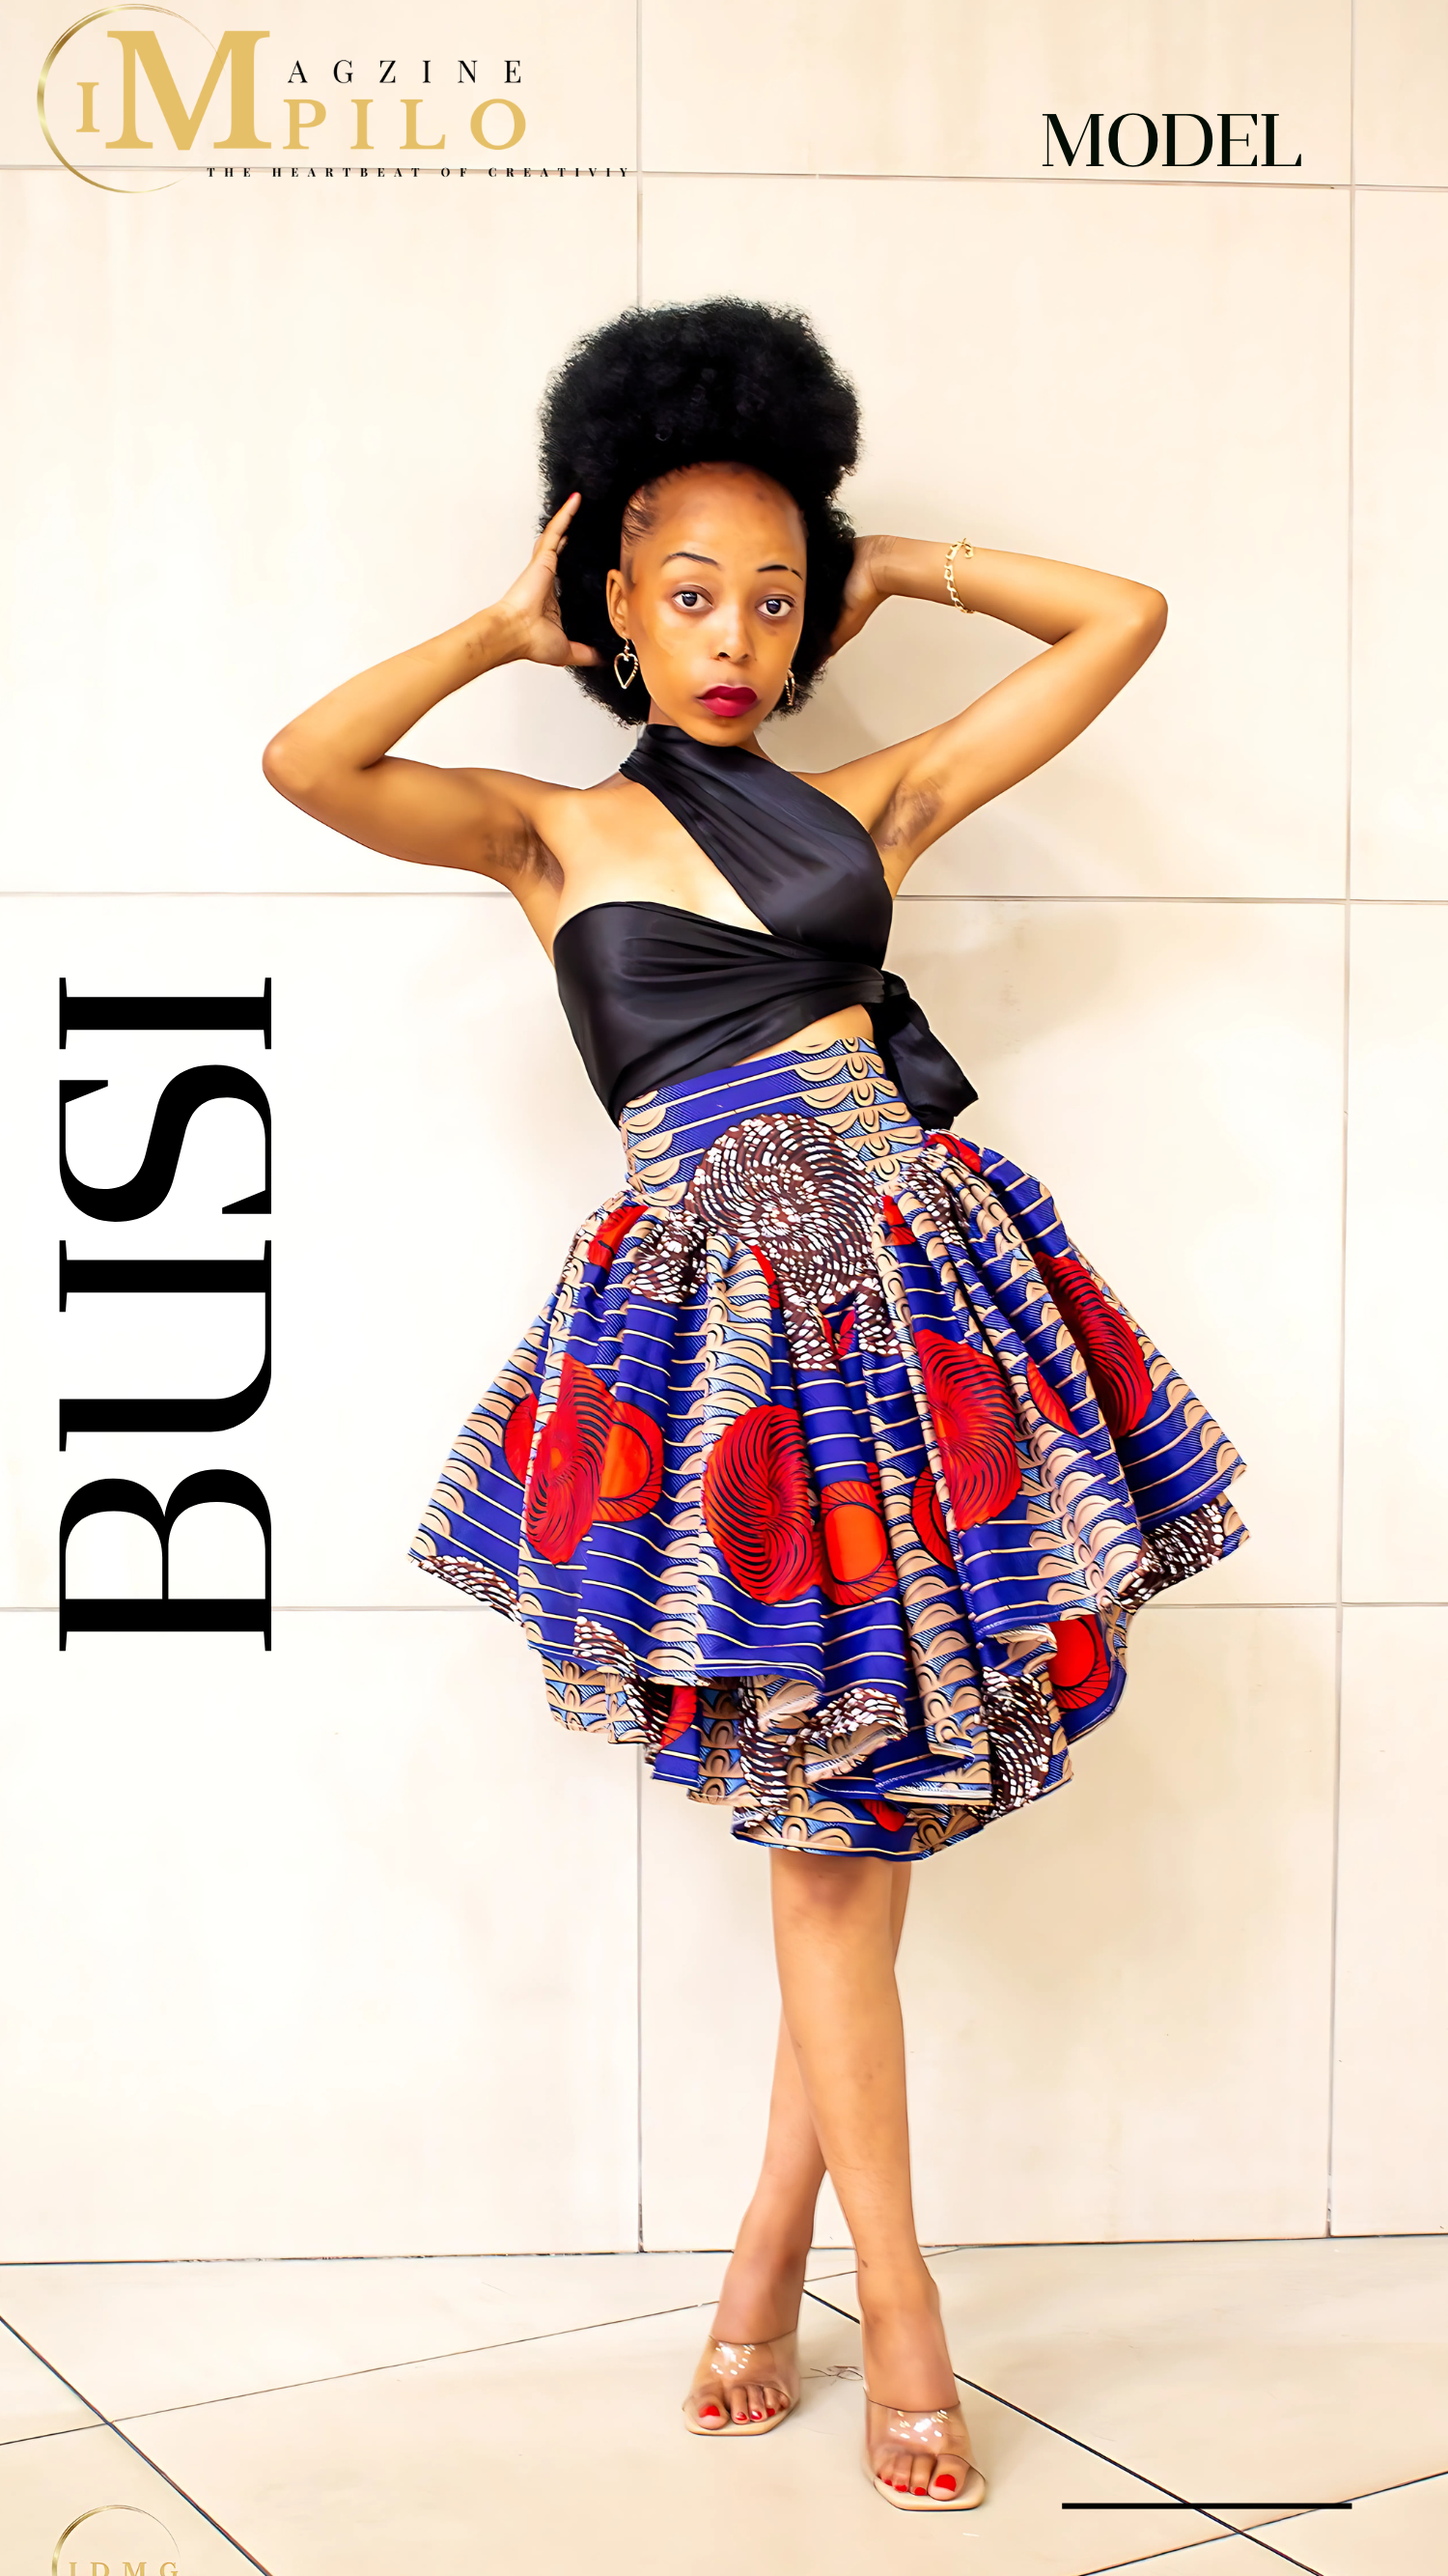
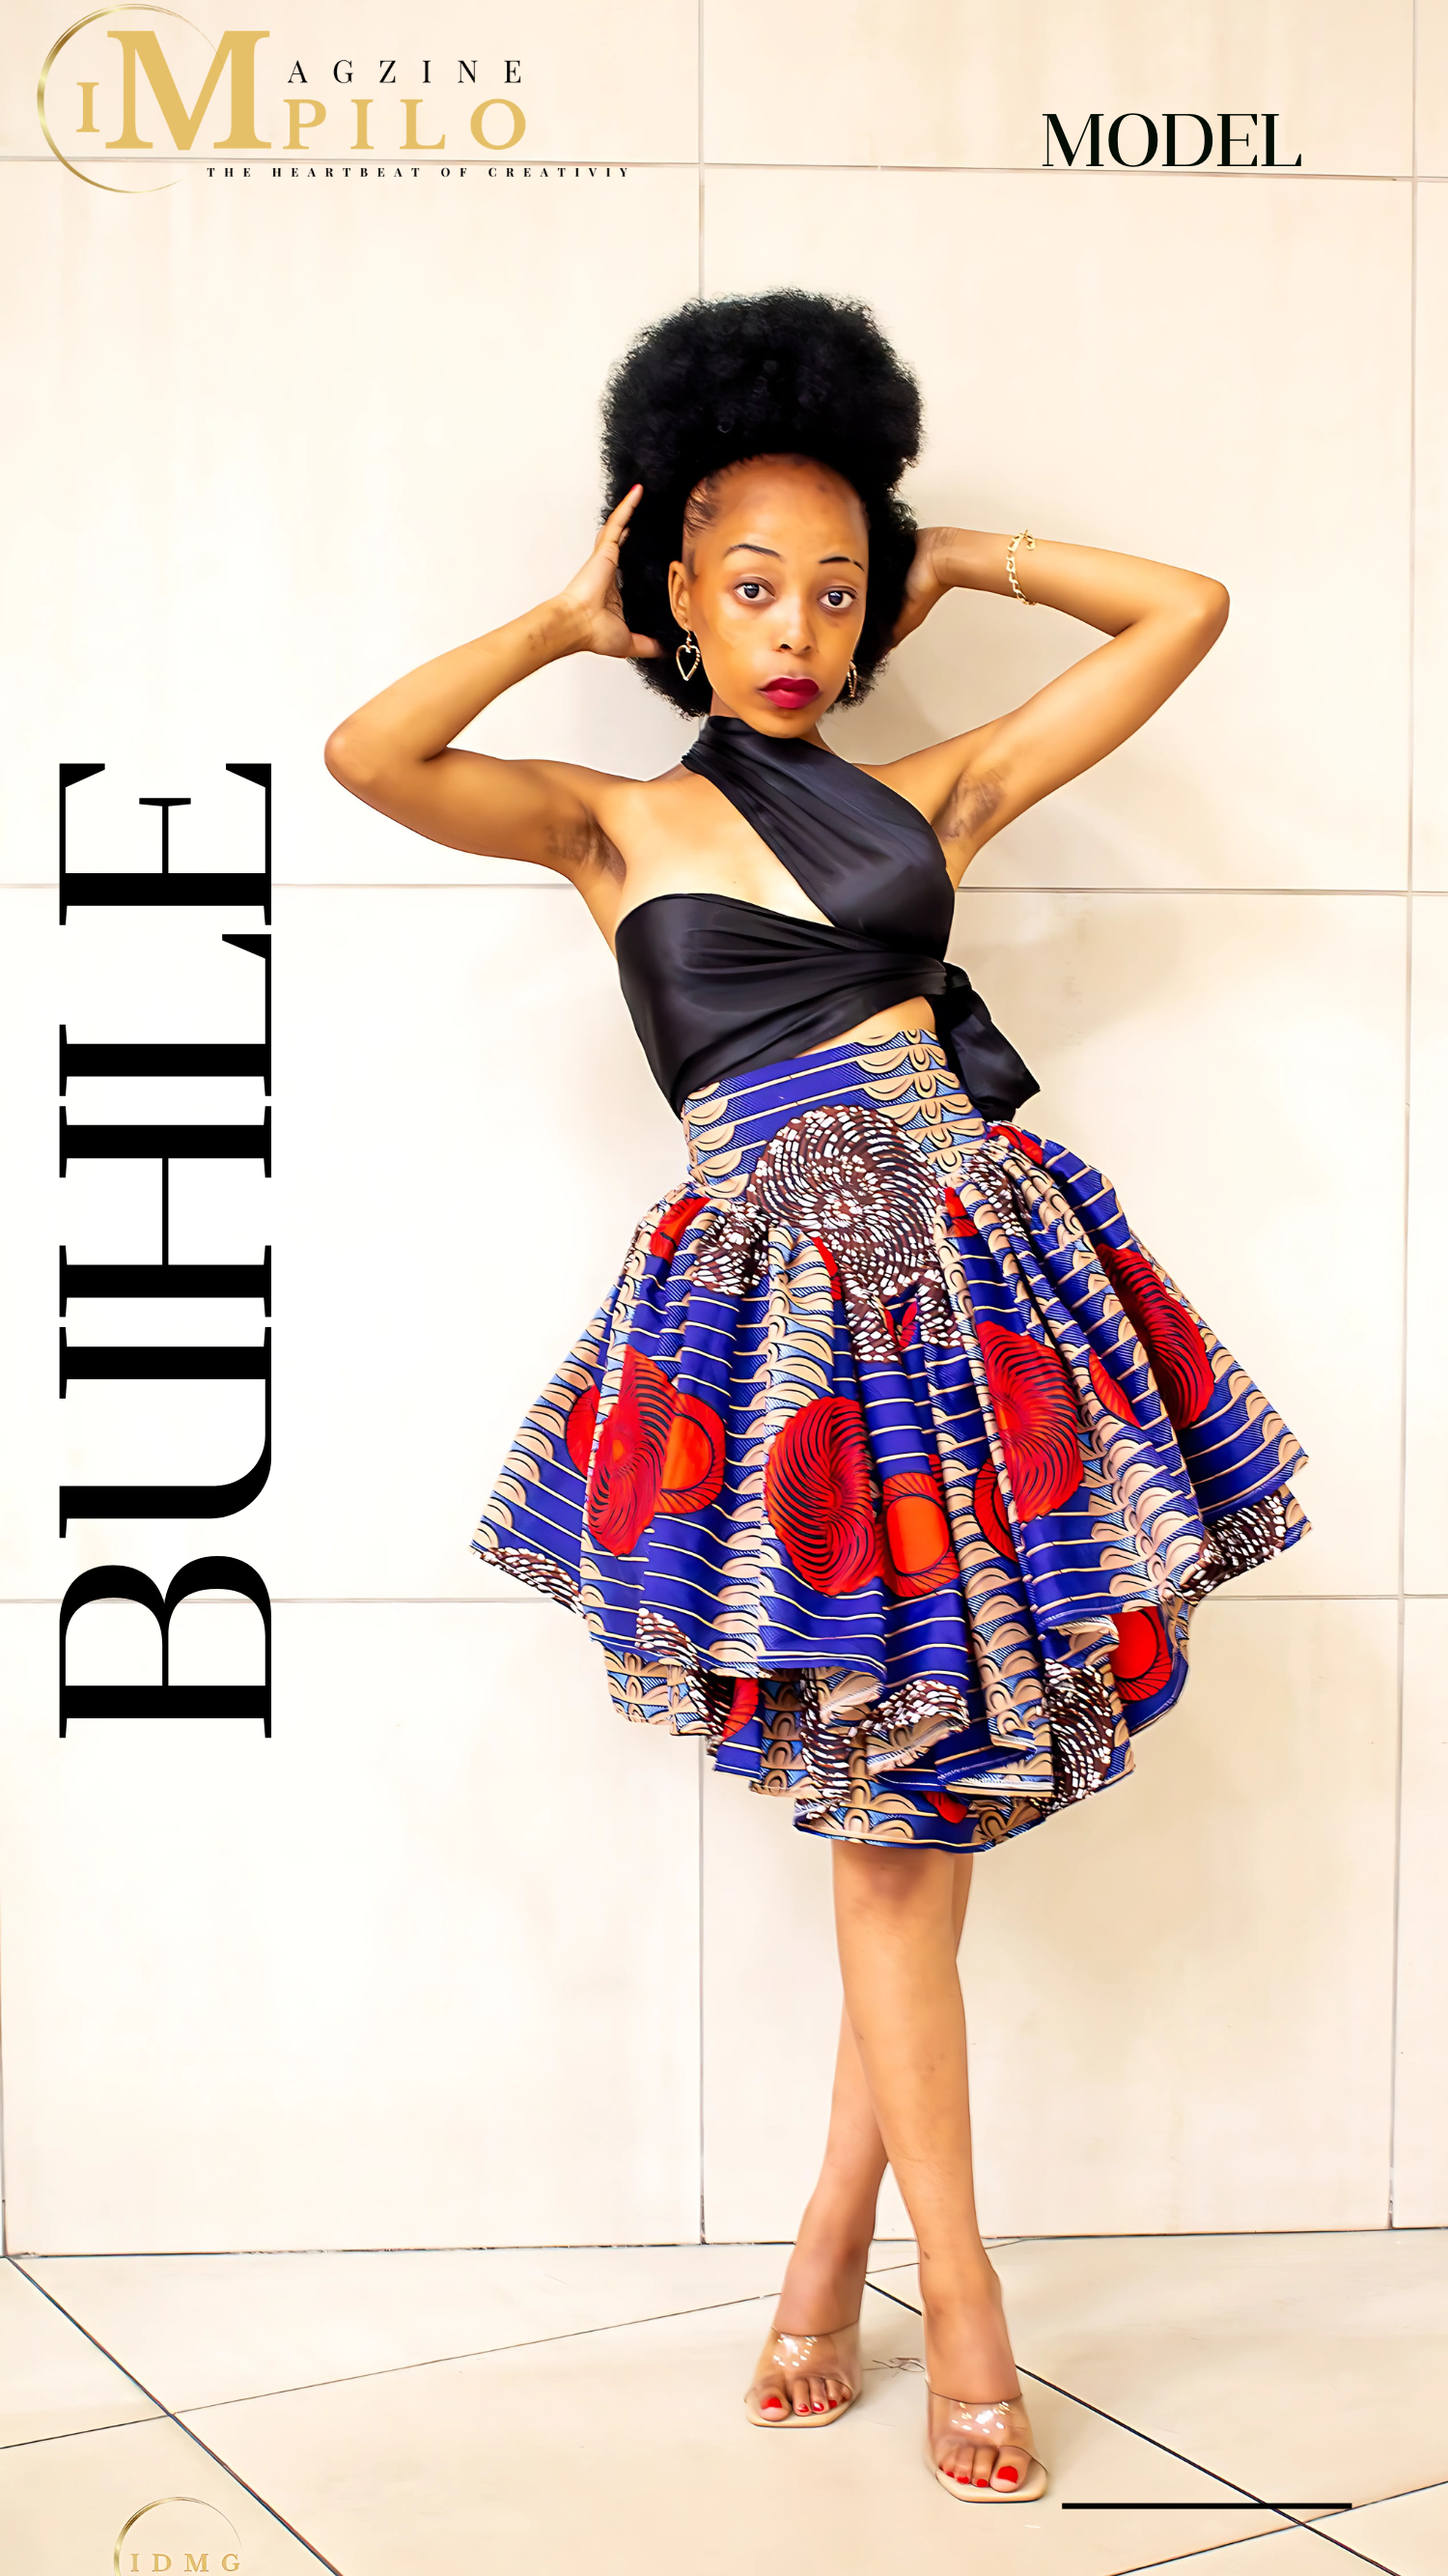
Oratile

diff --git a/src/pages.js b/src/pages.js
@@ -15,6 +15,14 @@ export const pages = [
 "https://github.com/TommyTeaVee/ImpiloV2/blob/2025-digital/src/content/fashionrunway/modellers/sne_pro.png?raw=true?auto=compress&cs=tinysrgb&dpr=1&w=1500",
 "https://github.com/TommyTeaVee/ImpiloV2/blob/2025-digital/src/content/fashionrunway/modellers/nk_story.png?raw=true?auto=compress&cs=tinysrgb&dpr=1&w=1500",
 
+//Glenda Lee
+"https://github.com/TommyTeaVee/ImpiloV2/blob/2025-digital/src/content/fashionrunway/article/feature_cover.png?raw=true?auto=compress&cs=tinysrgb&dpr=1&w=1506",
+"https://github.com/TommyTeaVee/ImpiloV2/blob/2025-digital/src/content/fashionrunway/article/glenda_pro.png?raw=true?auto=compress&cs=tinysrgb&dpr=1&w=1506",
+"https://github.com/TommyTeaVee/ImpiloV2/blob/2025-digital/src/content/fashionrunway/article/glenda_cover.png?raw=true?auto=compress&cs=tinysrgb&dpr=1&w=1506",
+"https://github.com/TommyTeaVee/ImpiloV2/blob/2025-digital/src/content/fashionrunway/article/glenda_details.png?raw=true?auto=compress&cs=tinysrgb&dpr=1&w=1506",
+//Glenda
+"https://github.com/TommyTeaVee/ImpiloV2/blob/2025-digital/src/content/fashionrunway/covers/Glenda_cover.png?raw=true?auto=compress&cs=tinysrgb&dpr=1&w=1500",
+   
 
     //Abenathi
     "https://github.com/TommyTeaVee/ImpiloV2/blob/2025-digital/src/content/fashionrunway/covers/Abenathi_cover.png?raw=true?auto=compress&cs=tinysrgb&dpr=1&w=1500",
@@ -22,8 +30,6 @@ export const pages = [
      //Busi
     "https://github.com/TommyTeaVee/ImpiloV2/blob/2025-digital/src/content/fashionrunway/covers/Busi_cover.png?raw=true?auto=compress&cs=tinysrgb&dpr=1&w=1500",
     
-   //Glenda
-    "https://github.com/TommyTeaVee/ImpiloV2/blob/2025-digital/src/content/fashionrunway/covers/Glenda_cover.png?raw=true?auto=compress&cs=tinysrgb&dpr=1&w=1500",
    
     //Bontle 
     "https://github.com/TommyTeaVee/ImpiloV2/blob/2025-digital/src/content/fashionrunway/covers/Bontle_cover.png?raw=true?auto=compress&cs=tinysrgb&dpr=1&w=1506",
@@ -54,19 +60,22 @@ export const pages = [
     "https://github.com/TommyTeaVee/ImpiloV2/blob/2025-digital/src/content/fashionrunway/covers/Nwabisa_cover.png?raw=true?auto=compress&cs=tinysrgb&dpr=1&w=100",
     "https://github.com/TommyTeaVee/ImpiloV2/blob/2025-digital/src/content/fashionrunway/modellers/Nwabisa.png?raw=true?auto=compress&cs=tinysrgb&dpr=1&w=1500", 
     
-    //Sthembele
-    "https://github.com/TommyTeaVee/ImpiloV2/blob/2025-digital/src/content/fashionrunway/covers/Sthe_cover.png?raw=true?auto=compress&cs=tinysrgb&dpr=1&w=1506",
-    "https://github.com/TommyTeaVee/ImpiloV2/blob/2025-digital/src/content/fashionrunway/modellers/Sthe.png?raw=true?auto=compress&cs=tinysrgb&dpr=1&w=1500",
+    //Oratile
+    "https://github.com/TommyTeaVee/ImpiloV2/blob/2025-digital/src/content/fashionrunway/covers/Oratile_cover.png?raw=true?auto=compress&cs=tinysrgb&dpr=1&w=1506",
+    "https://github.com/TommyTeaVee/ImpiloV2/blob/2025-digital/src/content/fashionrunway/modellers/Oratile.png?raw=true?auto=compress&cs=tinysrgb&dpr=1&w=1500",
     
-    //Tshiamo
-    "https://github.com/TommyTeaVee/ImpiloV2/blob/2025-digital/src/content/fashionrunway/covers/Tshiamo_cover.png?raw=true?auto=compress&cs=tinysrgb&dpr=1&w=1506",
-    "https://github.com/TommyTeaVee/ImpiloV2/blob/2025-digital/src/content/fashionrunway/modellers/Tshiamo.png?raw=true?auto=compress&cs=tinysrgb&dpr=1&w=1500",
    
    //Phillip
     "https://github.com/TommyTeaVee/ImpiloV2/blob/2025-digital/src/content/fashionrunway/covers/Phillip_cover.png?raw=true?auto=compress&cs=tinysrgb&dpr=1&w=1506",
     "https://github.com/TommyTeaVee/ImpiloV2/blob/2025-digital/src/content/fashionrunway/modellers/Phillip.png?raw=true?auto=compress&cs=tinysrgb&dpr=1&w=1500",
     
-    
+     //Sthembele
+     "https://github.com/TommyTeaVee/ImpiloV2/blob/2025-digital/src/content/fashionrunway/covers/Sthe_cover.png?raw=true?auto=compress&cs=tinysrgb&dpr=1&w=1506",
+     "https://github.com/TommyTeaVee/ImpiloV2/blob/2025-digital/src/content/fashionrunway/modellers/Sthe.png?raw=true?auto=compress&cs=tinysrgb&dpr=1&w=1500",
+      //Tshiamo
+    "https://github.com/TommyTeaVee/ImpiloV2/blob/2025-digital/src/content/fashionrunway/covers/Tshiamo_cover.png?raw=true?auto=compress&cs=tinysrgb&dpr=1&w=1506",
+    "https://github.com/TommyTeaVee/ImpiloV2/blob/2025-digital/src/content/fashionrunway/modellers/Tshiamo.png?raw=true?auto=compress&cs=tinysrgb&dpr=1&w=1500",
+   
     //Colission Course - LV
     "https://github.com/TommyTeaVee/ImpiloV2/blob/2025-digital/src/content/fashionrunway/covers/Phillip_cover.png?raw=true?auto=compress&cs=tinysrgb&dpr=1&w=1506",
    
@@ -74,7 +83,10 @@ export const pages = [
    //Trump and Economic war
     "https://github.com/TommyTeaVee/ImpiloV2/blob/2025-digital/src/content/fashionrunway/covers/Phillip_cover.png?raw=true?auto=compress&cs=tinysrgb&dpr=1&w=1506",
     
-    //True Crime
+    //True Crime Drama
+    "https://github.com/TommyTeaVee/ImpiloV2/blob/2025-digital/src/content/fashionrunway/modellers/Acrimony_intro.png?raw=true?auto=compress&cs=tinysrgb&dpr=1&w=1506",
+    "https://github.com/TommyTeaVee/ImpiloV2/blob/2025-digital/src/content/fashionrunway/modellers/Acrimony_art.png?raw=true?auto=compress&cs=tinysrgb&dpr=1&w=1506",
+    "https://github.com/TommyTeaVee/ImpiloV2/blob/2025-digital/src/content/fashionrunway/modellers/Acrimony_closure.png?raw=true?auto=compress&cs=tinysrgb&dpr=1&w=1506",
     //King Davon
     "https://github.com/TommyTeaVee/ImpiloV2/blob/2025-digital/src/content/fashionrunway/covers/Phillip_cover.png?raw=true?auto=compress&cs=tinysrgb&dpr=1&w=1506",
     "https://github.com/TommyTeaVee/ImpiloV2/blob/2025-digital/src/content/fashionrunway/covers/Phillip_cover.png?raw=true?auto=compress&cs=tinysrgb&dpr=1&w=1506",
